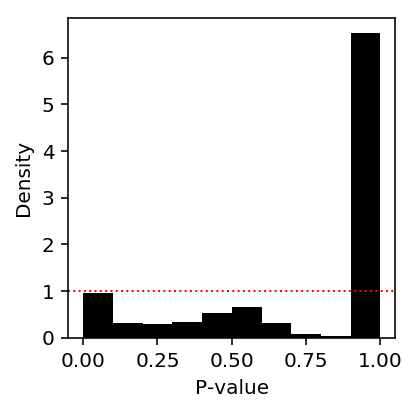
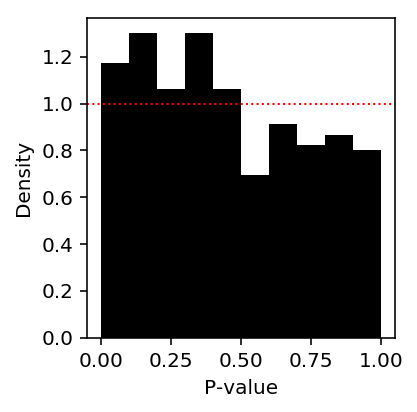
Fix Poisson deconvolution DE

diff --git a/docs/deconv-de.html b/docs/deconv-de.html
@@ -1,7 +1,7 @@
 <!DOCTYPE html>
 <html lang="en">
 <head>
-<!-- 2019-06-01 Sat 11:24 -->
+<!-- 2019-06-06 Thu 17:08 -->
 <meta charset="utf-8">
 <meta name="viewport" content="width=device-width, initial-scale=1">
 <title>Differential expression based on distribution deconvolution</title>
@@ -521,8 +521,6 @@ plt.tight_layout()
 </p>
 </div>
 
-
-
 <p>
 Deconvolve gene expression assuming \(g\) is a point mass (counts are
 marginally Poisson distributed). Naively, this should work because the data
@@ -542,7 +540,8 @@ are informative about the mean.
   <span class="org-variable-name">mu1</span> = x[z].<span class="org-builtin">sum</span>() / s[z].<span class="org-builtin">sum</span>()
   <span class="org-variable-name">mu2</span> = x[~z].<span class="org-builtin">sum</span>() / s[~z].<span class="org-builtin">sum</span>()
   <span class="org-variable-name">onehot</span> = pd.get_dummies(z)
-  <span class="org-variable-name">llr</span> = st.poisson(mu=mu0).logpmf(x).<span class="org-builtin">sum</span>() - st.poisson(mu=onehot.dot(np.array([mu1, mu2]))).logpmf(x).<span class="org-builtin">sum</span>()
+  <span class="org-variable-name">llr</span> = st.poisson(mu=mu0).logpmf(x).<span class="org-builtin">sum</span>() - st.poisson(mu=onehot.dot(np.array([mu2, mu1]))).logpmf(x).<span class="org-builtin">sum</span>()
+  <span class="org-keyword">assert</span> llr &lt; 0
   <span class="org-keyword">return</span> pd.Series({<span class="org-string">'mu0'</span>: mu0, <span class="org-string">'mu1'</span>: mu1, <span class="org-string">'mu2'</span>: mu2, <span class="org-string">'llr'</span>: llr, <span class="org-string">'p'</span>: st.chi2(1).sf(-2 * llr)})
 </pre>
 </div>
@@ -570,101 +569,7 @@ plt.tight_layout()
 </div>
 
 <p>
-Report the proportion of genes for which the null model fit better than the
-alternative model.
-</p>
-
-<div class="org-src-container">
-<pre class="src src-ipython">(de_res[<span class="org-string">'llr'</span>] &gt; 0).mean()
-</pre>
-</div>
-
-<pre class="example">
-0.6529284164859002
-
-</pre>
-
-<p>
-Look at the gene where the null model did best against the alternative.
-</p>
-
-<div class="org-src-container">
-<pre class="src src-ipython" id="orgeea08c4"><span class="org-variable-name">gene_info</span> = pd.read_csv(<span class="org-string">'/project2/mstephens/aksarkar/projects/singlecell-qtl/data/scqtl-genes.txt.gz'</span>, sep=<span class="org-string">'\t'</span>, index_col=0)
-</pre>
-</div>
-
-<div class="org-src-container">
-<pre class="src src-ipython"><span class="org-variable-name">k</span> = de_res[<span class="org-string">'llr'</span>].idxmax()
-<span class="org-variable-name">x</span> = cd8.loc[:,k]
-gene_info.loc[k]
-</pre>
-</div>
-
-<pre class="example">
-chr             hs15
-start       69745123
-end         69748255
-name           RPLP1
-strand             +
-source    H. sapiens
-Name: ENSG00000137818, dtype: object
-</pre>
-
-<p>
-Look at the deconvolved distributions for this gene. Superimpose the Poisson
-point-mass estimates for the two groups (dotted lines), and the Gamma mean
-estimate (dashed line).
-</p>
-
-<div class="org-src-container">
-<pre class="src src-ipython">plt.clf()
-<span class="org-variable-name">fig</span>, <span class="org-variable-name">ax</span> = plt.subplots(2, 1)
-fig.set_size_inches(6, 4)
-ax[0].hist(x[z], bins=np.arange(x.<span class="org-builtin">max</span>() + 1), alpha=0.6, color=<span class="org-string">'k'</span>, label=<span class="org-string">'Group 1'</span>)
-ax[0].hist(x[~z], bins=np.arange(x.<span class="org-builtin">max</span>() + 1), alpha=0.6, color=<span class="org-string">'r'</span>, label=<span class="org-string">'Group 2'</span>)
-ax[0].legend(frameon=<span class="org-constant">False</span>)
-ax[0].set_xlabel(<span class="org-string">'Num mols'</span>)
-ax[0].set_ylabel(<span class="org-string">'Num cells'</span>)
-
-<span class="org-keyword">for</span> c, m <span class="org-keyword">in</span> <span class="org-builtin">zip</span>(plt.get_cmap(<span class="org-string">'Dark2'</span>).colors, [<span class="org-string">'Gamma'</span>, <span class="org-string">'ZIG'</span>, <span class="org-string">'Unimodal'</span>, <span class="org-string">'ZIEF'</span>, <span class="org-string">'NPMLE'</span>]):
-  ax[1].plot(*<span class="org-builtin">getattr</span>(scmodes.deconvolve, f<span class="org-string">'fit_{m.lower()}'</span>)(x, s), color=c, lw=1, label=m)
-
-ax[1].axvline(x=scqtl.simple.fit_nb(x, s)[0], c=plt.get_cmap(<span class="org-string">'Dark2'</span>).colors[0], ls=<span class="org-string">'--'</span>, lw=1)
-ax[1].axvline(x=de_res.loc[k, <span class="org-string">'mu1'</span>], c=<span class="org-string">'k'</span>, ls=<span class="org-string">':'</span>, lw=1)
-ax[1].axvline(x=de_res.loc[k, <span class="org-string">'mu2'</span>], c=<span class="org-string">'r'</span>, ls=<span class="org-string">':'</span>, lw=1)
-
-ax[1].set_xlabel(<span class="org-string">'Latent gene expression'</span>)
-ax[1].set_ylabel(<span class="org-string">'CDF'</span>)
-ax[1].legend(frameon=<span class="org-constant">False</span>)
-fig.tight_layout()
-</pre>
-</div>
-
-
-<div class="figure">
-<p><img src="figure/deconv-de.org/cd8-rplp1.png" alt="cd8-rplp1.png">
-</p>
-</div>
-
-<p>
-Check whether also allowing dispersions to vary across groups fixes this
-gene.
-</p>
-
-<div class="org-src-container">
-<pre class="src src-ipython"><span class="org-variable-name">llr</span> = scqtl.simple.fit_nb(x, s)[-1] - (scqtl.simple.fit_nb(x[z], s[z])[-1] + scqtl.simple.fit_nb(x[~z], s[~z])[-1])
-llr, st.chi2(2).sf(-2 * llr)
-</pre>
-</div>
-
-<pre class="example">
-(-2.176938147920737, 0.11338817750598136)
-
-</pre>
-
-<p>
-This result suggests that the Poisson sampling variance is not correctly
-estimated.
+This result suggests that the sampling variance is not correctly estimated.
 </p>
 </div>
 </div>
@@ -1225,7 +1130,7 @@ dtype: float64
 </div>
 <div id="postamble" class="status">
 <p class="author">Author: Abhishek Sarkar</p>
-<p class="date">Created: 2019-06-01 Sat 11:24</p>
+<p class="date">Created: 2019-06-06 Thu 17:08</p>
 <p class="validation"><a href="http://validator.w3.org/check?uri=referer">Validate</a></p>
 </div>
 </body>
